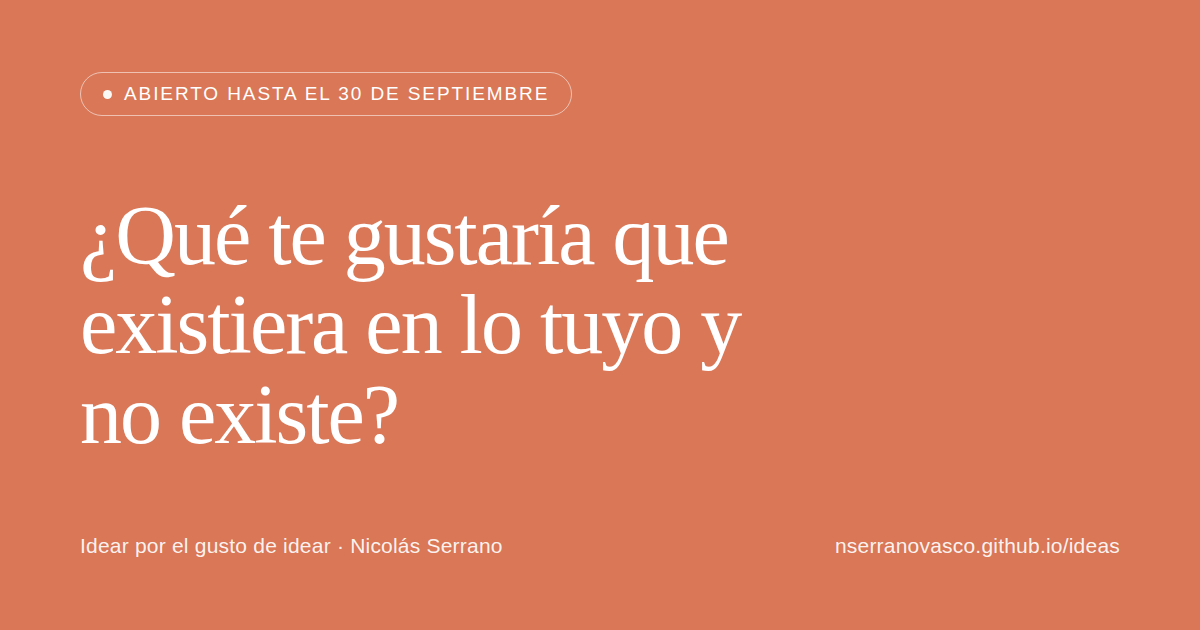
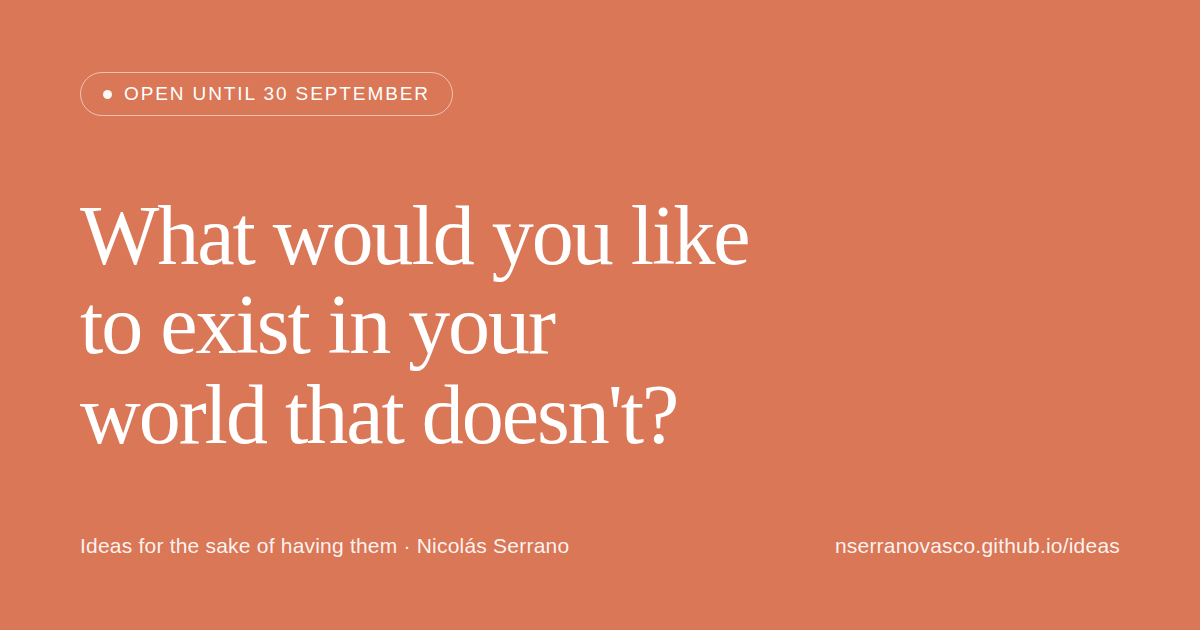
Add files via upload

diff --git a/index.html b/index.html
@@ -1,20 +1,21 @@
 <!doctype html>
-<html lang="es">
+<html lang="en">
 <head>
 <meta charset="utf-8">
 <meta name="viewport" content="width=device-width, initial-scale=1">
-<title>Idear por el gusto de idear</title>
-<meta name="description" content="¿Qué te gustaría que existiera en lo tuyo y no existe? Deja una idea. El 30 de septiembre se publican todas.">
+<title>Ideas for the sake of having them</title>
+<meta name="description" content="What would you like to exist in your world that doesn't? Leave an idea. All of them get published on 30 September.">
 <meta name="robots" content="index, follow">
 
 <meta property="og:type" content="website">
 <meta property="og:url" content="https://nserranovasco.github.io/ideas/">
-<meta property="og:title" content="Idear por el gusto de idear">
-<meta property="og:description" content="¿Qué te gustaría que existiera en lo tuyo y no existe? Deja una idea. El 30 de septiembre se publican todas.">
+<meta property="og:title" content="Ideas for the sake of having them">
+<meta property="og:description" content="What would you like to exist in your world that doesn't? Leave an idea. All of them get published on 30 September.">
 <meta property="og:image" content="https://nserranovasco.github.io/ideas/og.png">
 <meta property="og:image:width" content="1200">
 <meta property="og:image:height" content="630">
-<meta property="og:locale" content="es_ES">
+<meta property="og:locale" content="en_US">
+<meta property="og:locale:alternate" content="es_ES">
 <meta name="twitter:card" content="summary_large_image">
 
 <link rel="preconnect" href="https://fonts.googleapis.com">
@@ -223,8 +224,8 @@
 
 <div class="col topbar">
   <div class="langs" role="group" aria-label="Idioma / Language">
-    <button type="button" id="lang-es" data-lang="es" aria-pressed="true">ES</button>
-    <button type="button" id="lang-en" data-lang="en" aria-pressed="false">EN</button>
+    <button type="button" id="lang-es" data-lang="es" aria-pressed="false">ES</button>
+    <button type="button" id="lang-en" data-lang="en" aria-pressed="true">EN</button>
   </div>
 </div>
 
@@ -388,13 +389,14 @@
     });
     buttons.forEach(function (b) { b.setAttribute("aria-pressed", String(b.dataset.lang === lang)); });
     root.setAttribute("lang", lang);
+    document.title = lang === "es" ? "Idear por el gusto de idear" : "Ideas for the sake of having them";
   }
   function isES() { return root.getAttribute("lang") === "es"; }
 
   buttons.forEach(function (b) {
     b.addEventListener("click", function () { apply(b.dataset.lang); });
   });
-  apply((navigator.language || "es").toLowerCase().slice(0, 2) === "es" ? "es" : "en");
+  apply("en");
 
   var ta = document.getElementById("idea");
   var counter = document.getElementById("counter");
